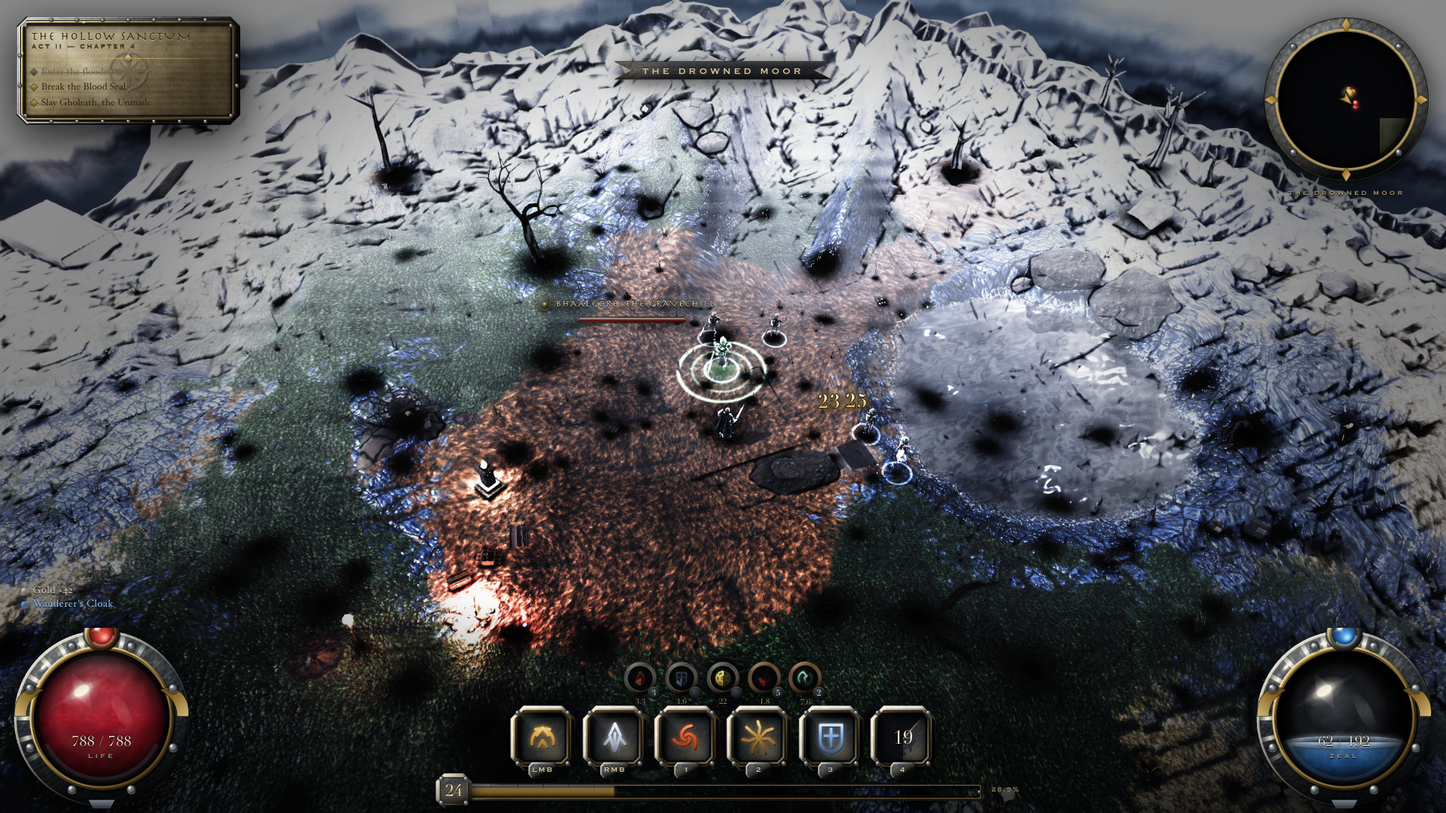
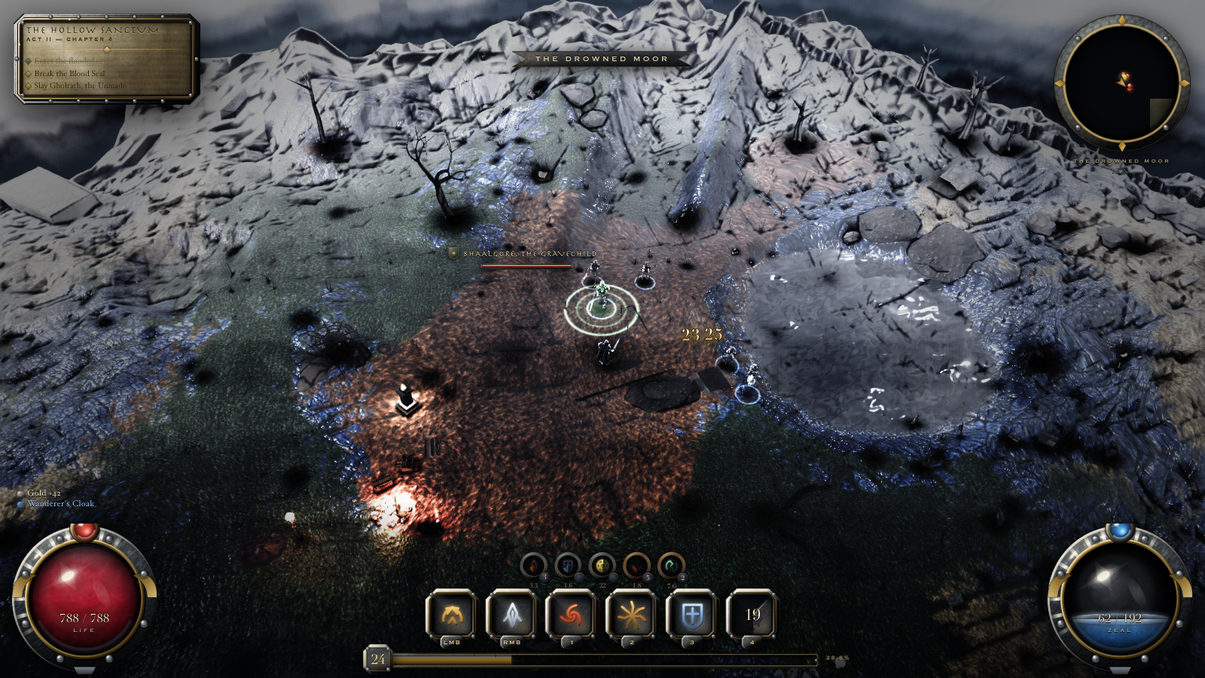
Fix the black holes and snow-white ridges on the moor (#4)
## What and why

The moor is where the live game boots, and two defects made it the worst
frame a player saw first.

**Black holes all over the ground.** Dozens of soft near-black discs,
1–3 m across, most with nothing above them. They came from
`decals:contact`. `_pick` ranks props by footprint (`rec.r`), and
footprint is not mass: a heather mat is 1.5 m wide and 5 cm tall. On
`overworld`, **50 of the 72 prop slots** went to grass and heather, and
each one got the full boulder-strength patch. Props already skips
`noBlob` / `carpet` / `mounted` kinds for its own blob shadows, but the
contact layer never checked those flags. The new
`Props.contactWeight(rec)` uses the same gate: 0 for carpet and mounted
pieces, 1 for solid casters, 0.35 for open, low dressing (bramble,
roots, scree). `_pick` skips weight 0 and scales both rank and lobe
strength by the weight.

**Ridges that read as snow.** The moor grade had `whitePoint 0.50` at
`contrast 1.52`, a ~2.8× stretch that clipped every lit slope to white.
With the post chain bypassed, the ridges render as grey slate, so the
snow came entirely from the grade. It passed the p99 highlight check by
turning half the frame into highlight. The new values are 0.56 / 1.40.

**What did not work, so nobody repeats it:** hiding a group with
`.visible = false` proves nothing, because Props, Weather and Decals set
visibility again every frame. The first round of "hide X, blobs remain"
[…]

diff --git a/src/vfx/Decals.js b/src/vfx/Decals.js
@@ -1409,7 +1409,7 @@ class ContactShadows {
     if (moved || elapsed - this._propAt > CONTACT_PROP_REFRESH || !this._props.length) {
       this._propAt = elapsed;
       this._fx = F.x; this._fz = F.z;
-      this._pick(list, F.x, F.z);
+      this._pick(list, F.x, F.z, props);
     }
     const sel = this._props;
     for (let i = 0; i < sel.length; i++) {
@@ -1419,21 +1419,29 @@ class ContactShadows {
       // One broad lobe, sized off the prop's own Poisson footprint, plus a
       // tighter core so a barrel gets a dark ring at its staves and not a
       // uniform grey disc the size of a table.
-      _lobes[0] = 0; _lobes[1] = 0; _lobes[2] = r * 0.62; _lobes[3] = 0.62;
-      _lobes[4] = 0; _lobes[5] = 0; _lobes[6] = r * 1.32; _lobes[7] = 0.40;
+      const w = rec.__cw ?? 1;
+      _lobes[0] = 0; _lobes[1] = 0; _lobes[2] = r * 0.62; _lobes[3] = 0.62 * w;
+      _lobes[4] = 0; _lobes[5] = 0; _lobes[6] = r * 1.32; _lobes[7] = 0.40 * w;
       this._want(`p${rec.__cs}`, rec.x, rec.z, rec.groundY,
         Math.min(2.2, r + 0.2), _lobes, 2, elapsed, true);
     }
   }
 
   /** Partial selection of the props worth a slot, leaving room for characters. */
-  _pick(list, fx, fz) {
+  _pick(list, fx, fz, props) {
     const room = Math.max(0, CONTACT_SLOTS - 24);
     const out = this._props;
     out.length = 0;
+    const weigh = typeof props?.contactWeight === 'function' ? props : null;
     for (let i = 0; i < list.length; i++) {
       const rec = list[i];
       if (!rec || rec.dead) continue;
+      // Ground cover has a wide footprint and no height. Ranked by footprint
+      // alone it took 50 of 72 slots on the moor and printed a black hole under
+      // each clump, so Props says how much of a caster each record really is.
+      const w = weigh ? weigh.contactWeight(rec) : 1;
+      if (!(w > 0)) continue;
+      rec.__cw = w;
       if (!Number.isFinite(rec.x) || !Number.isFinite(rec.z)) continue;
       const r = rec.r ?? 0;
       if (r < 0.13) continue;                 // a skull needs no cast shadow
@@ -1442,11 +1450,12 @@ class ContactShadows {
       if (d2 > 1600) continue;                // 40 m: past the frame either way
       /*
         * Rank by screen-area-ish: a big base far away still matters more than a
-        * tiny one underfoot. `__k` (sort key) and `__cs` (stable slot key) are
-        * scratch fields written onto Props' own records — namespaced, never read
-        * by anyone else, and cheaper than a parallel Map over 700 entries.
+        * tiny one underfoot. `__k` (sort key), `__cs` (stable slot key) and
+        * `__cw` (contact weight) are scratch fields written onto Props' own
+        * records — namespaced, never read by anyone else, and cheaper than a
+        * parallel Map over 700 entries.
         */
-      rec.__k = d2 / Math.max(0.05, r * r);
+      rec.__k = d2 / Math.max(0.05, r * r * w);
       if (rec.__cs === undefined) rec.__cs = i;
       out.push(rec);
     }

diff --git a/src/world/Props.js b/src/world/Props.js
@@ -2051,6 +2051,26 @@ export class Props {
     return out;
   }
 
+  /**
+   * How hard Decals' contact layer should ground this record, 0..1. Same gate as
+   * the prop's own blob above: carpet cover (grass, heather) and wall-mounted
+   * pieces get nothing. Solid casters get full weight; open, low dressing
+   * (bramble, roots, scree, bones) lets most of the sky through and gets a light
+   * touch.
+   *
+   * The contact layer sizes lobes off `rec.r`, which is FOOTPRINT, not mass. A
+   * 1.5 m heather mat is 1.5 m wide and 5 cm tall, so at full weight it printed a
+   * near-black 3 m disc under every clump, with nothing visible above it to
+   * explain the shadow — on the moor 50 of the 72 prop slots went to carpet.
+   */
+  contactWeight(rec) {
+    if (!rec || rec.dead || rec.broken || rec.hidden) return 0;
+    const def = KINDS[rec.kind];
+    if (!def) return 1;
+    if (def.noBlob || def.carpet || def.mounted || (def.blob ?? 1) <= 0) return 0;
+    return def.cast ? 1 : 0.35;
+  }
+
   /** True if a capsule of radius `r` at (x,z) would intersect solid dressing. */
   blocksAt(x, z, r = 0.35) {
     const near = this.queryNear({ x, z }, r);

diff --git a/src/render/passes/GradePass.js b/src/render/passes/GradePass.js
@@ -168,7 +168,13 @@ export const LOOKS = {
       // moor and multiplied the remaining blue by 1/0.8. Modest pedestal, low
       // ceiling for a real highlight on wet rock, and the saturation pulled
       // down hard because this is the one look measuring a colour *cast*.
-      blackPoint: 0.138, whitePoint: 0.50, blackSoft: 0.10, contrast: 1.52, pivot: 0.40,
+      //
+      // The ceiling was 0.50 at contrast 1.52: a 2.8x stretch that clipped every
+      // lit slope to white, so the ridges above the bog read as SNOW, not slate.
+      // It passed the p99 highlight check by turning half the frame into
+      // highlight. 0.56 / 1.40 keeps p99 above the 0.72 floor (0.75) on wet rock and
+      // water glints while the ridges hold a grey value structure.
+      blackPoint: 0.138, whitePoint: 0.56, blackSoft: 0.10, contrast: 1.40, pivot: 0.40,
       shadowLift: 1.00, shadowKnee: 0.070, shadowChroma: 0.82,
       // Pedestal 0.138 with soft 0.10 and the only look with no shadow lift at
       // all: measured, it put EVERY input under 0.04 at 0.00/255 and 0.08 at

diff --git a/KNOWN_ISSUES.md b/KNOWN_ISSUES.md
@@ -404,6 +404,49 @@ One seed in 24 still strands 489 m². Not chased.
 
 ---
 
+## 9. Black holes scattered across the moor — `overworld`, `night`, live boot — FIXED
+
+**Flag: "Black, blank, or single-color frame"** (local) · severity 7 · **fixed**
+
+Dozens of soft, near-black discs, 1-3 m across, all over the open moor with nothing
+standing above most of them. The live game boots to the moor, so this was the first
+thing a player saw.
+
+It was `decals:contact`. `_pick` ranks props by footprint (`rec.r`), and footprint is
+not mass: a heather mat is 1.5 m wide and 5 cm tall. On `overworld`, **50 of the 72
+prop slots** went to grass and heather, each stamped with the boulder-strength
+two-lobe patch (0.62 + 0.40, capped at 0.80). Props already knew better — its own
+blob layer skips `noBlob` / `carpet` / `mounted` kinds — but the contact layer never
+asked.
+
+**Fix:** `Props.contactWeight(rec)` applies the same gate and returns 0 for carpet
+and mounted pieces, 1 for solid casters (`cast: true`), and 0.35 for open, low
+dressing (bramble, roots, scree, bones). `_pick` skips weight 0, ranks by `r² · w`,
+and the lobe strengths are scaled by `w`.
+
+**How it was found, so nobody repeats the dead end:** hiding a group with
+`.visible = false` proves nothing here — Props, Weather and Decals re-assert
+visibility every frame, so the first round of "hide X, blobs remain" was testing
+nothing. Hide by `material.visible = false` instead. Also ruled out by measurement:
+every post pass, sun and CSM shadows, cloud shadows, terrain AO, puddles, wetness,
+and NaN propagation.
+
+## 10. Moor ridges read as snow — `overworld`, live boot — FIXED
+
+**Flag: "Milky lifted blacks or a washed-out grey frame"** (the inverse case of
+entry 3) · severity 6 · **fixed**
+
+The moor `post` grade had `whitePoint 0.50` at `contrast 1.52` — a ~2.8x stretch
+that clipped every lit slope to white. Rendering with the post chain bypassed shows
+grey slate; the snow was entirely the grade. It satisfied entry 3's p99 check by
+turning half the frame into highlight.
+
+Now `whitePoint 0.56` at `contrast 1.40`. Measured: mean 0.321 → 0.265, p99 0.875
+→ 0.75 (floor 0.72), near-black 4.2 % → 3.6 %. 0.62 looked best but measured p99
+0.688 and failed the floor; 0.58 measured 0.719.
+
+---
+
 ## Closed (no longer reproduces)
 
 Verified against the current 8-scenario capture:
